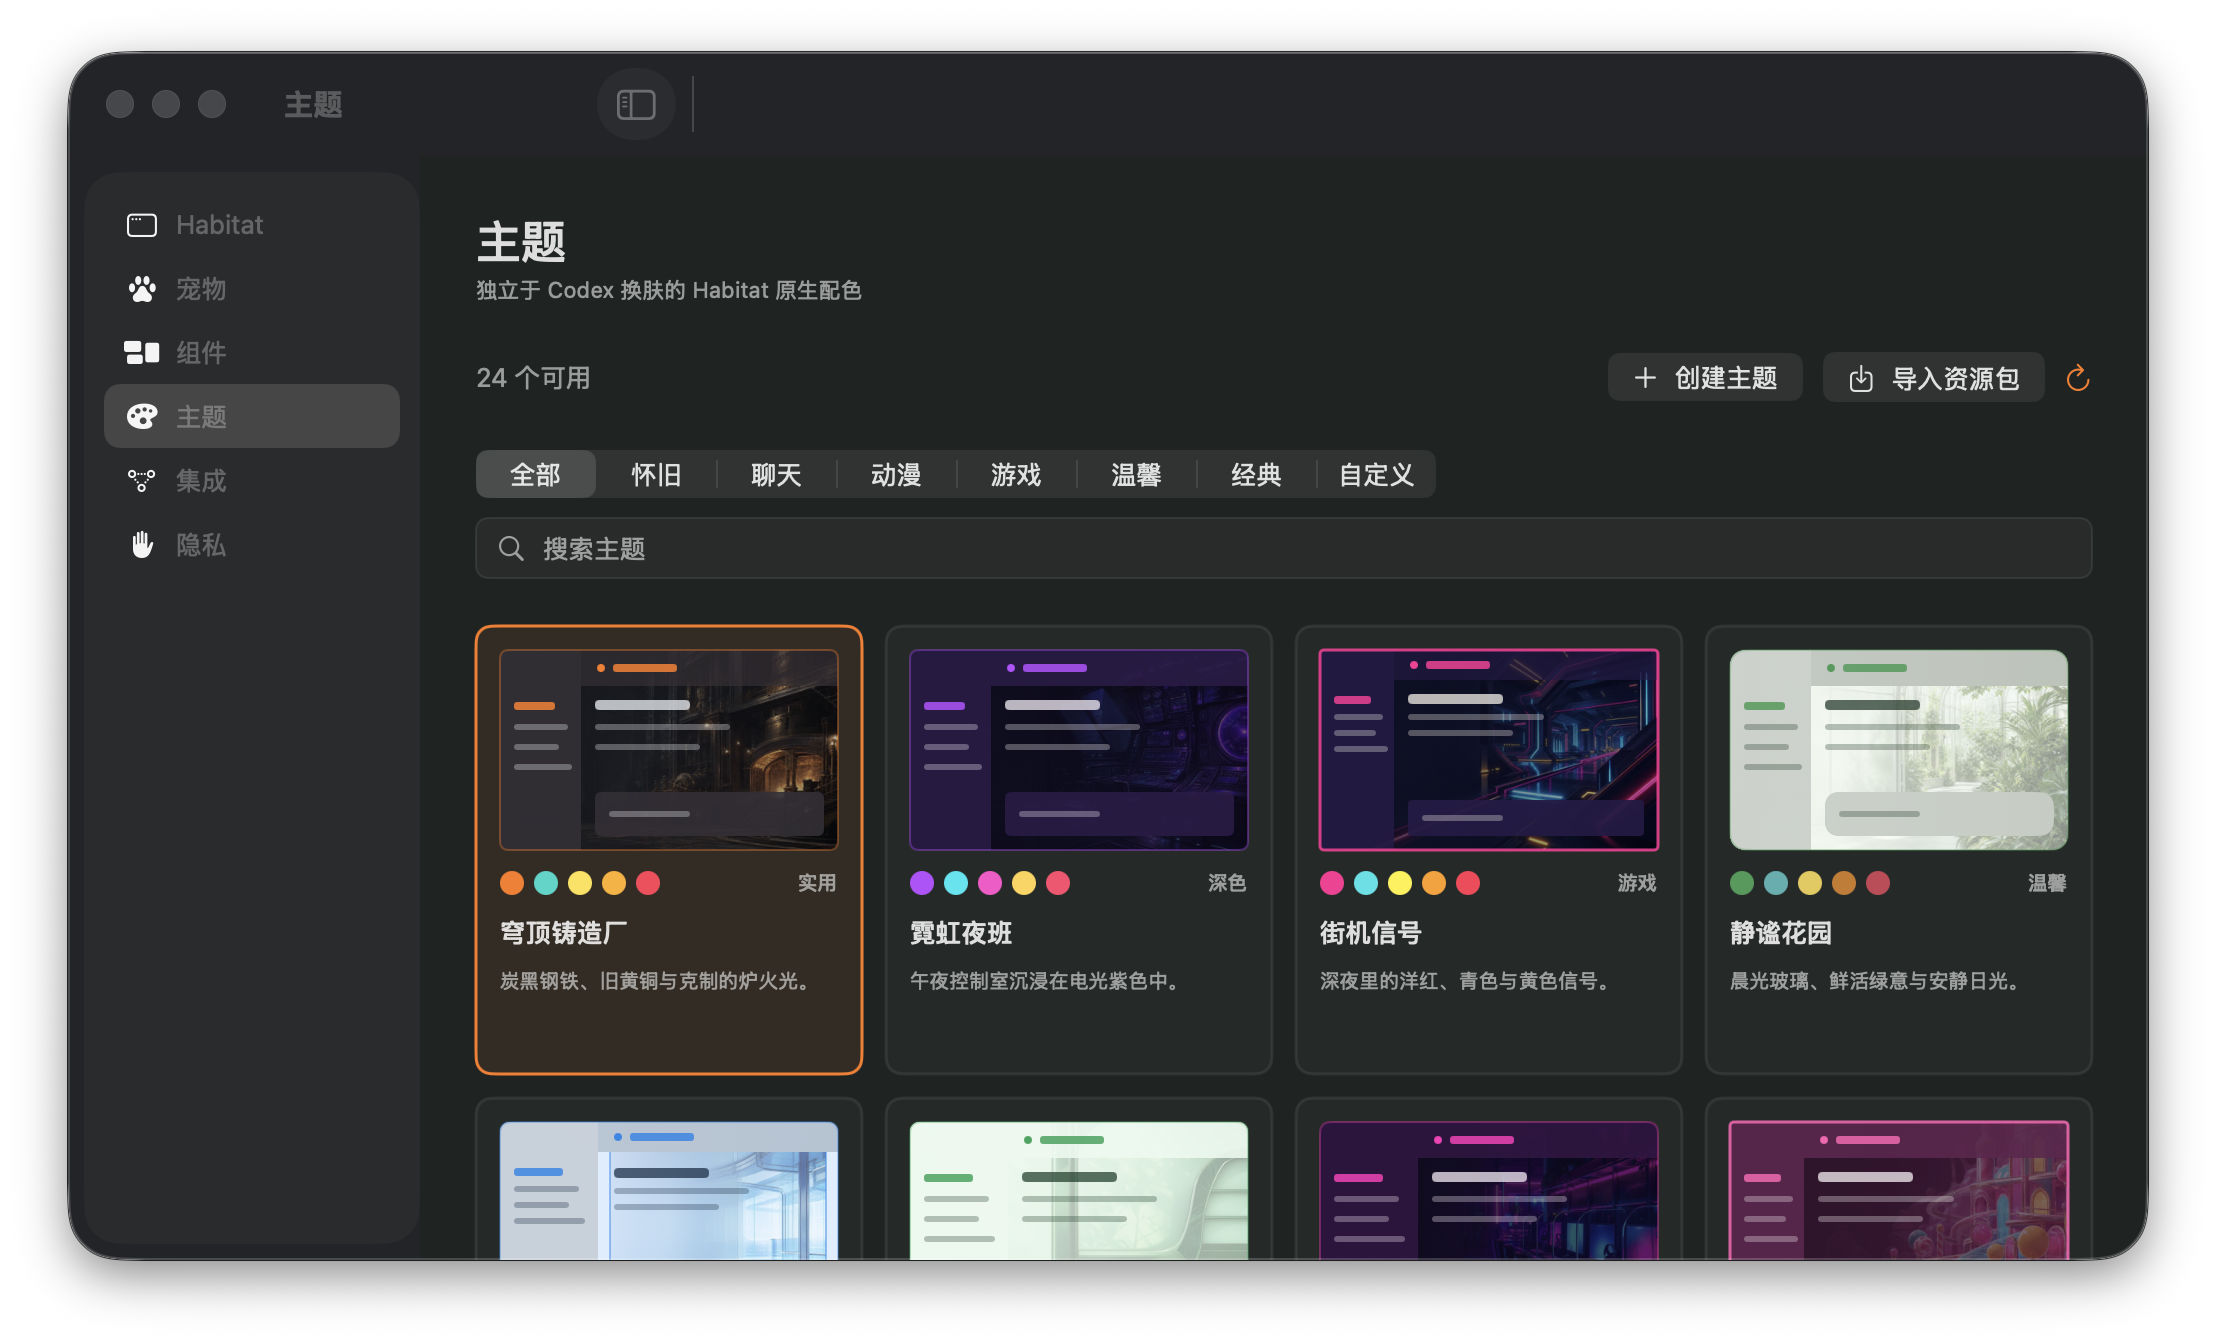
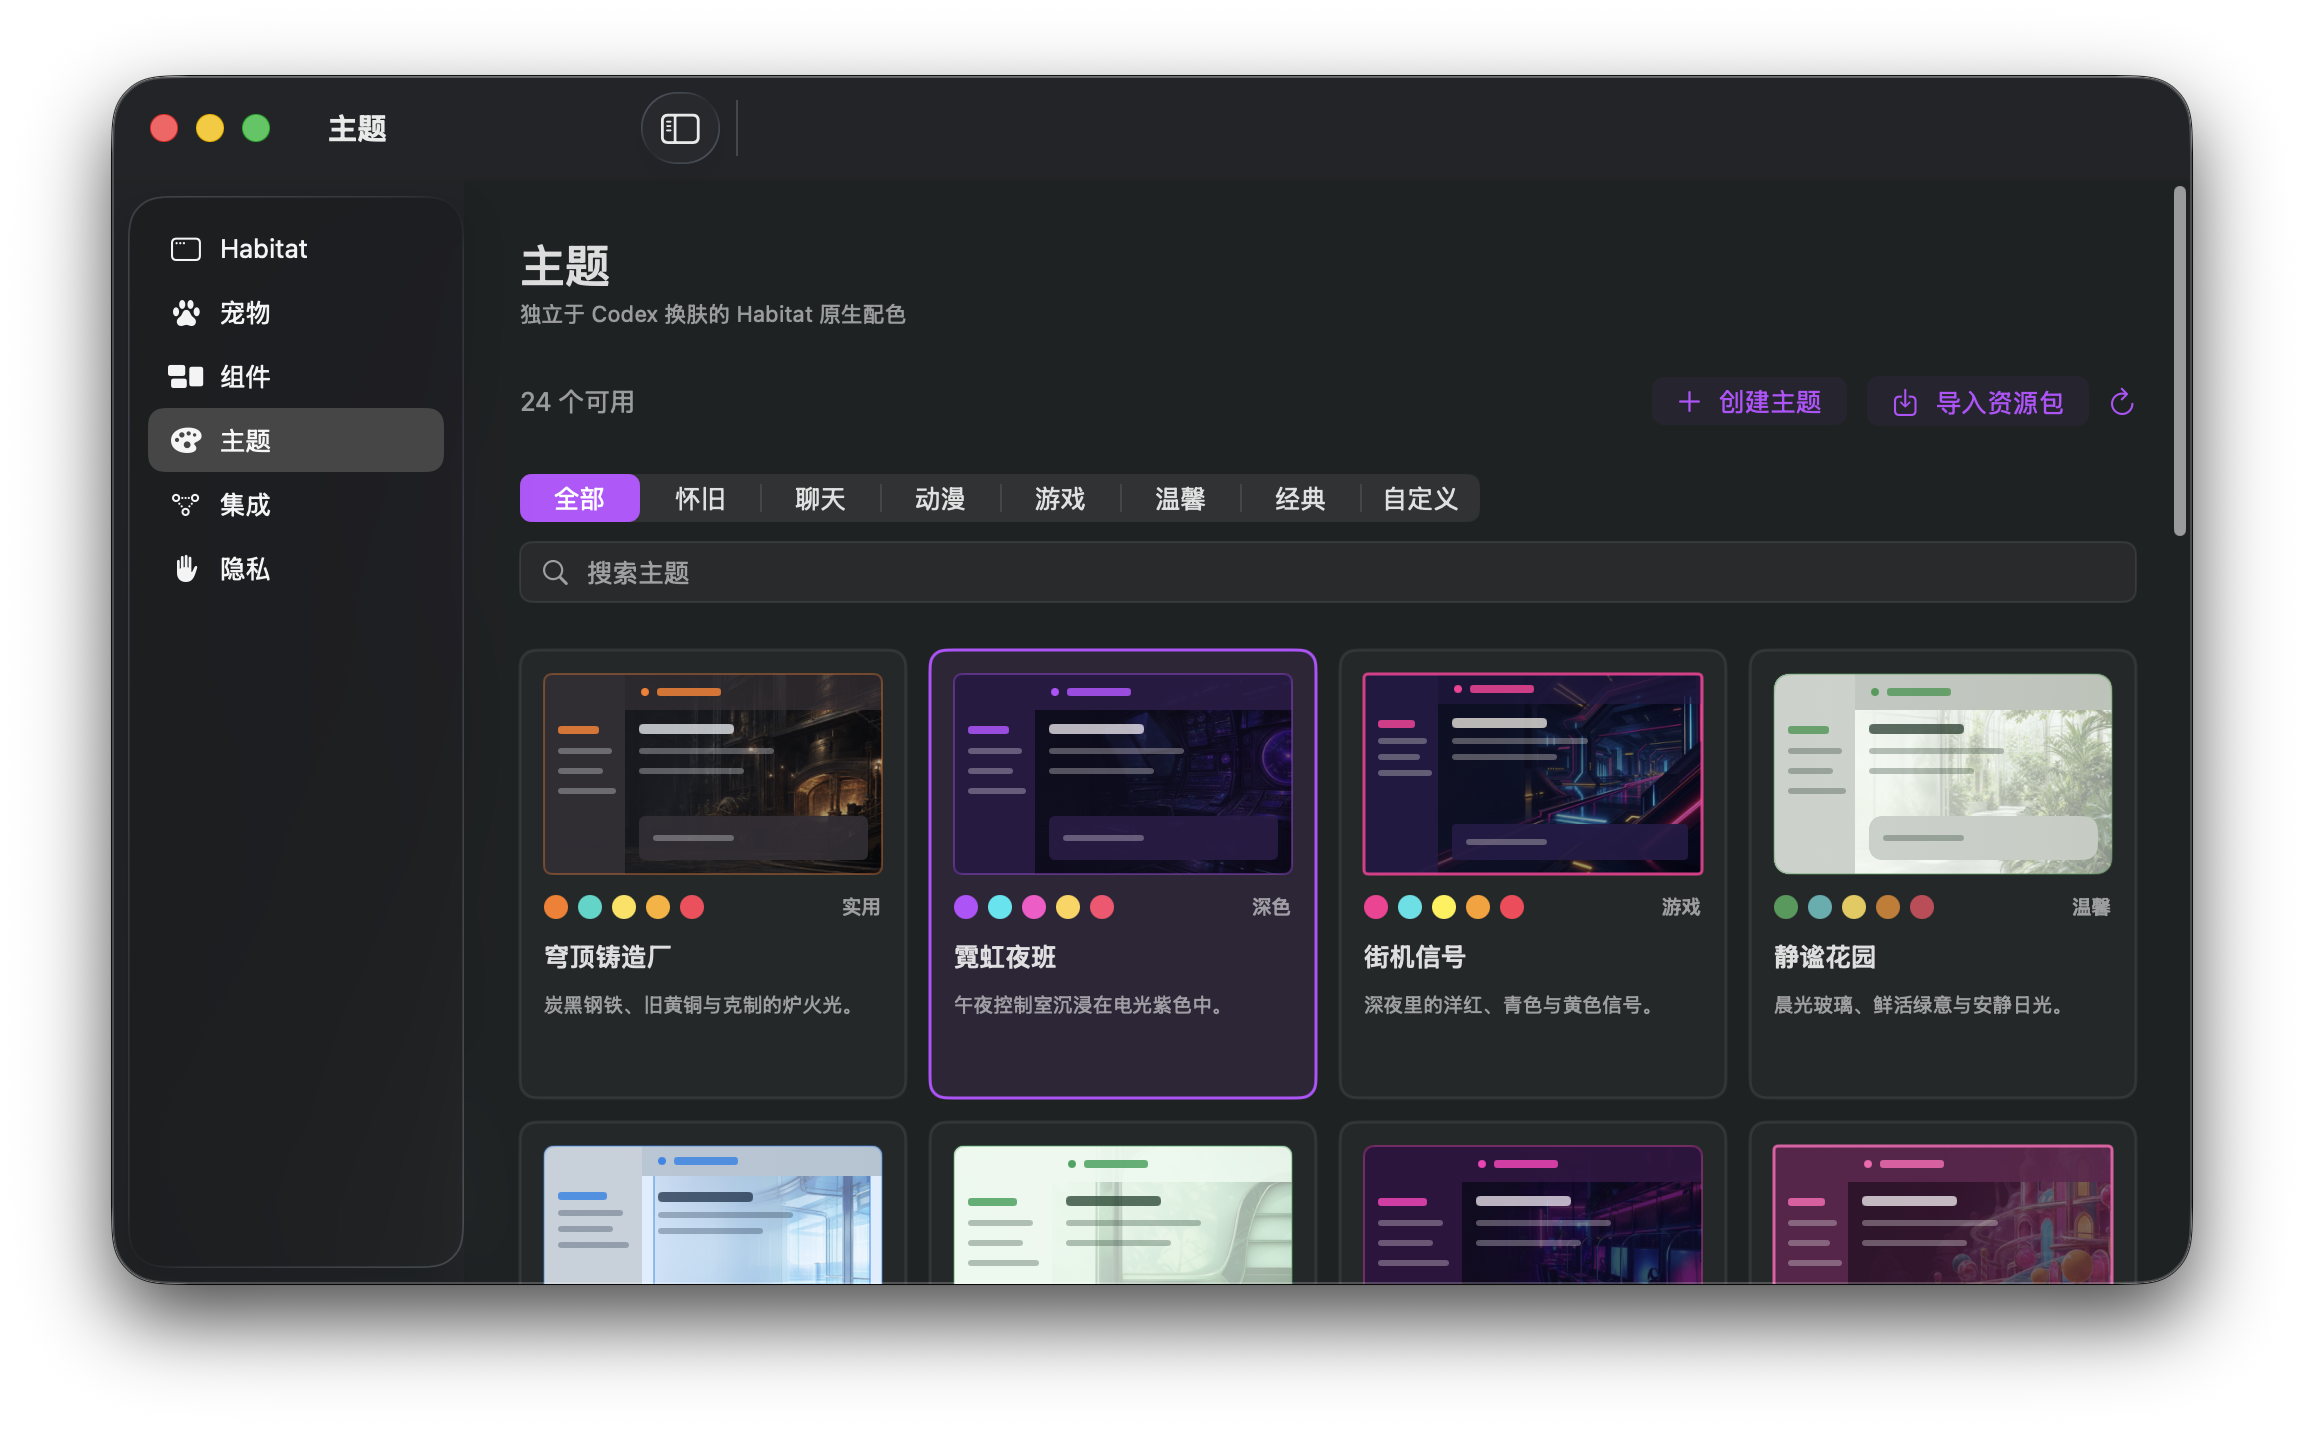
docs: record final lifecycle and performance QA

diff --git a/docs/qa/macos-v1-checklist.md b/docs/qa/macos-v1-checklist.md
@@ -7,7 +7,7 @@ explicit user action.
 
 ## Automated and packaged
 
-- [x] Full Swift test suite passes: 283 tests including versioned CDP profiles, fail-closed target validation, bounded route-aware theme updates and bootstrap cleanup, pre-injection main-renderer health filtering, theme protocol, image bounds, thumbnail cache invalidation, theme-navigation resource isolation, pet-renderer reuse, localization, lifecycle, and performance budgets.
+- [x] Full Swift test suite passes: 291 tests including versioned CDP profiles, fail-closed target validation, bounded route-aware theme updates and complete bootstrap cleanup, pre-injection main-renderer health filtering, theme protocol, image bounds, thumbnail cache invalidation, theme-navigation resource isolation, off-main pet renderer construction, localization, lifecycle, and performance budgets.
 - [x] Production Swift build completes without warnings.
 - [x] Ad-hoc `.app` passes strict/deep signature and hardened-runtime checks.
 - [x] Sparkle 2.9.4 framework, XPC services, updater, and autoupdate signatures validate.
@@ -17,7 +17,7 @@ explicit user action.
 - [x] Standard `Contents/Resources` load works without `.build` fallback.
 - [x] Packaged `en` and `zh-Hans` localization catalogs are declared and copied into the main app resources.
 - [x] DMG mounts read-only, contains the app and `/Applications` link, and runs the packaged version command.
[2 lines of base64/hex data omitted]
 - [x] Ad-hoc builds disable network updates and use a local-only library-validation exception.
 - [ ] Developer ID build, Apple notarization, stapling, and Gatekeeper acceptance with production credentials.
 
@@ -31,14 +31,14 @@ explicit user action.
 - [x] All 24 bundled theme packages have unique IDs and hashes, 800 x 500 previews, and nine materially distinct host-owned style families. Cathedral Foundry, Retro Messenger 2007, Arcade Signal, and Quiet Garden use validated 2560 x 1440 prototype backgrounds; the other twenty retain validated 1600 x 1000 backgrounds.
 - [x] All, Nostalgia, Anime, and Custom gallery filters plus Theme Studio at narrow and wide settings widths pass native screenshot review without blank previews, clipping, or overlap.
 - [x] Installed Pets and Themes pages pass native screenshot review with decoded thumbnails/previews, stable card geometry, and no blank or overlapping content.
-- [x] Theme Studio accepts only local single-frame PNG/JPEG/WebP input and typed controls, including home/task treatment, safe side, chrome material, independent route strength, and sidebar/header/composer opacity; it re-encodes bounded art and installs/exports through the validated package path with a user-content rights notice.
+- [x] Theme Studio accepts only local single-frame PNG/JPEG/WebP input (including uppercase extensions) and typed controls, including home/task treatment, safe side, chrome material, independent route strength, and sidebar/header/composer opacity; installed custom themes reopen as complete typed drafts, optional pet pairings persist, and slug collisions require explicit replacement confirmation.
 - [x] Build 7 polished-prototype gallery, Retro Messenger framed preview at 1040 points, and Theme Studio route controls at a 760-point parent pass original-resolution screenshot review; evidence is in `docs/qa/screenshots/2026-07-18/`.
 - [x] Overlay does not activate the app and can be made click-through.
 - [x] Menu-bar connection state and Pomodoro/countdown controls render without clipping and share live timer state with the overlay.
 - [x] Simplified Chinese settings and the default status/latest-request Token/context/recent-60-second-output/quota overlay pass native screenshot review without overlap.
 - [x] At 100% scale the physical overlay is 136 x 144 collapsed and 324 x 144 expanded; the right edge remains fixed and the collapsed window has no transparent mouse-blocking rail.
 - [x] Resource packs support validated import, explicit replacement, export, and uninstall from native settings.
-- [x] Whole-pet live dragging moved the packaged overlay from `+1138,+481` to `+948,+319`; position lock and per-display relative placement persist through settings schema v4.
+- [x] Whole-pet live dragging moved the packaged overlay from `+1138,+481` to `+948,+319`; position lock, per-display relative placement, and theme-pet pairings persist through settings schema v5.
 - [x] Launch-at-login uses `SMAppService.mainApp`; registration, rollback, and stored-state reconciliation are covered by tests.
 - [x] Reduce Motion removes the pet refresh timer.
 - [x] Hiding Habitat pauses local session polling and the pet refresh timer; showing it resumes both.
@@ -53,6 +53,7 @@ explicit user action.
 - [x] Pet refresh is capped at 8 Hz active; resting, offline, and Reduce Motion are static.
 - [x] Sprite frames are cropped once and reused by subsequent redraws.
 - [x] Pet sprites decode only the requested thumbnail frame off the main thread and cache both successful and missing results.
+- [x] Selecting a different pet builds and precrops its immutable renderer off the main actor, keeps the current pet visible until publication, and discards cancelled stale results during rapid switching.
 - [x] Theme previews downsample to at most 480 px off the main thread, cache successful and missing results, and invalidate when local file size or modification time changes.
 - [x] Build 6 native Settings runs measured Integrations -> Themes at 0.145-0.156 s after removing the appearance-time full resource refresh; theme-card clicks measured 0.168-0.225 s, and a concurrent sample contained zero pet asset resolution or sprite-frame precropping stacks.
 - [x] Build 7 prototype gallery and narrow Theme Studio QA emitted zero “Publishing changes from within view updates”, AttributeGraph-cycle, or layout-recursion warnings.

diff --git a/docs/qa/screenshots/2026-07-18/README.md b/docs/qa/screenshots/2026-07-18/README.md
@@ -11,7 +11,7 @@ or helper process existed, and Codex retained PID `23647` and its original
 - [`gallery-prototypes.png`](gallery-prototypes.png): wide 1040-point theme
   gallery showing the composed whole-window previews for Cathedral Foundry,
   Arcade Signal, Quiet Garden, and the beginning of the blue-glass Retro
-  Messenger row. The Retina capture is 2216 x 1344 including the window shadow.
+  Messenger row. The Retina capture is 2304 x 1432 including the window shadow.
 - [`retro-framed-preview.png`](retro-framed-preview.png): wide 1040-point
   Nostalgia view showing Retro Messenger 2007 with artwork confined to the
   inset main pane beside its light grouped sidebar. The Retina capture is

diff --git a/README.md b/README.md
@@ -70,6 +70,10 @@ checked, dimension and pixel bounded, oriented, downsampled, and re-encoded.
 The generated package uses `LicenseRef-Codex-Habitat-User-Content` so saving a
 theme never grants rights the user does not hold. Imports cannot contain CSS,
 JavaScript, selectors, commands, URLs, symlinks, or undeclared files.
+Installed custom themes can be reopened as strongly typed drafts, optionally
+paired with a local pet, and replaced only after an explicit collision
+confirmation. PNG, JPEG, and WebP filename extensions are case-insensitive;
+the decoded signature and all image bounds remain mandatory.
 
 ## Build and run
 
